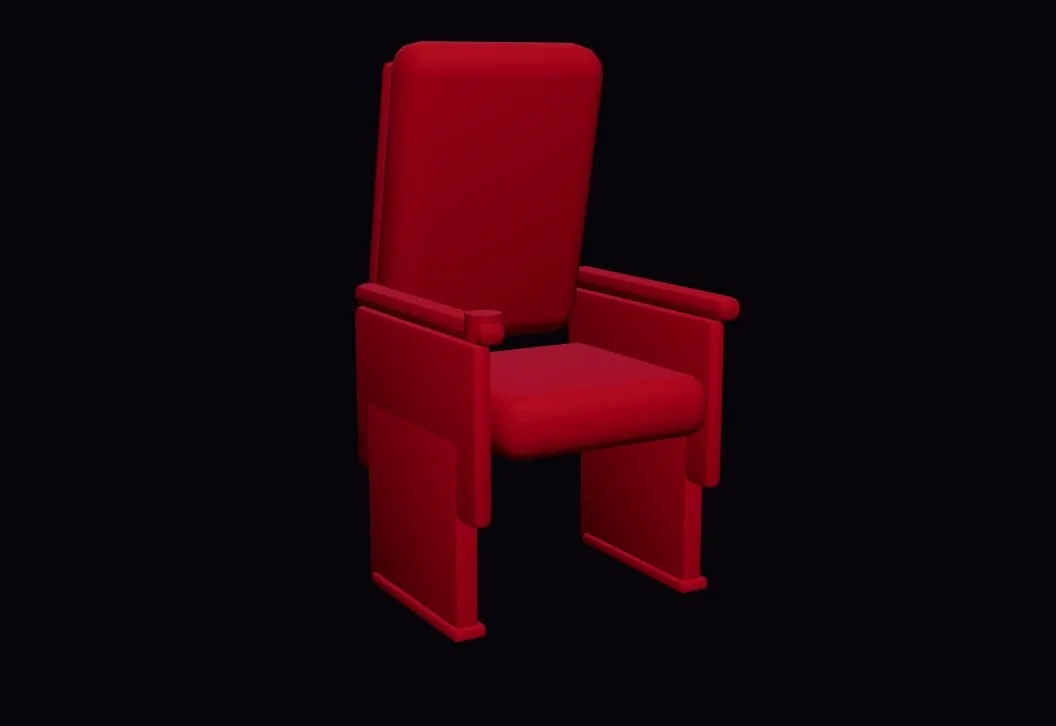
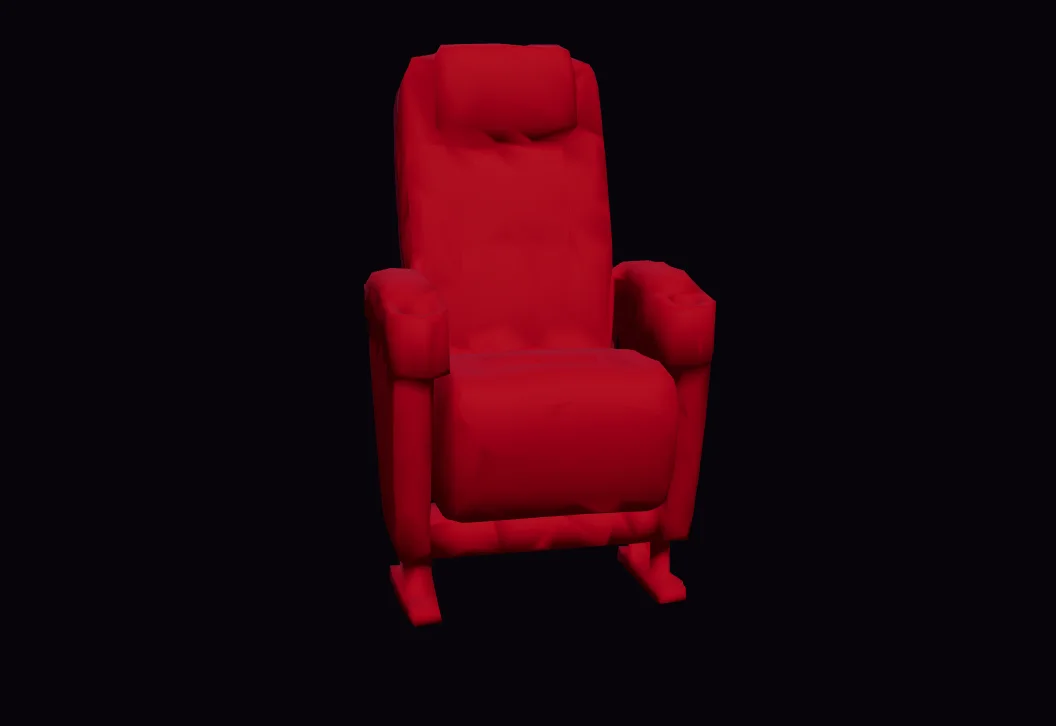
Re-render phone hall + seat stills; Unslop pass on the seat screen
- Phone hero still and the three "Choose your experience" seat stills re-rendered with the new hall look and Tripo seats
- PhoneHall screen corners re-measured; capture page gains blank=1 and angle=
- Unslop (light): row letters in one column, no unreadable numbers on map seats, no duplicate "Free" legend,
  the taka sign falls back to Anek Bangla instead of a system font

Claude-Session: https://claude.ai/code/session_01BVnwsAdfdwoHx9Sucs3VR8

Changed region(s): [[0.3125, 0.0303, 0.7188, 0.8788]]

diff --git a/components/booking/SeatSelection.tsx b/components/booking/SeatSelection.tsx
@@ -304,6 +304,8 @@ export function SeatSelection({ show, hallId, initialSeats = [], taken = [] }: {
   const totalText = `৳${total.toLocaleString("en-US")}`;
   const selectedSet = useMemo(() => new Set(sorted), [sorted]);
   const screenY = td && box ? Math.max(td.screen.y, box.y - 44) : 0;
+  // row letters share one column, just left of the widest row
+  const rowX = td ? Math.min(...[...td.seats.values()].map((q) => q.x)) - td.pitch * 1.15 : 0;
 
   // your row and its neighbours, shown at the bottom in the hall view (reference video A)
   const strip = useMemo(() => {
@@ -391,7 +393,7 @@ export function SeatSelection({ show, hallId, initialSeats = [], taken = [] }: {
           {[...rowsOf(layout.seats).values()].map((row) => {
             const q = td.seats.get(row[0].id)!;
             return (
-              <span key={row[0].row} aria-hidden className="seatmap__row" style={{ left: q.x - td.pitch * 1.15, top: q.y }}>
+              <span key={row[0].row} aria-hidden className="seatmap__row" style={{ left: rowX, top: q.y }}>
                 {row[0].row}
               </span>
             );
@@ -434,7 +436,6 @@ export function SeatSelection({ show, hallId, initialSeats = [], taken = [] }: {
                   zIndex: drag ? 30 - i : 5,
                 }}
               >
-                {glyph >= 14 ? byId.get(id)!.number : ""}
               </span>
             );
           })}
@@ -487,10 +488,12 @@ export function SeatSelection({ show, hallId, initialSeats = [], taken = [] }: {
             className={`absolute inset-x-0 bottom-2 flex flex-wrap items-center justify-center gap-x-5 gap-y-1 text-[12px] text-white/70 transition-opacity duration-300 ${inHall ? "opacity-0" : ""}`}
             aria-label={t("booking.legend")}
           >
-            <li className="inline-flex items-center gap-1.5">
-              <span className="legend-g seat-g--free seat-g--premium" />
-              {t("booking.free")}
-            </li>
+            {classes.length === 1 && (
+              <li className="inline-flex items-center gap-1.5">
+                <span className={`legend-g seat-g--free seat-g--${classes[0]}`} />
+                {t("booking.free")}
+              </li>
+            )}
             <li className="inline-flex items-center gap-1.5">
               <span className="legend-g seat-g--taken" />
               {t("booking.booked")}

diff --git a/app/dev/capture/CaptureLab.tsx b/app/dev/capture/CaptureLab.tsx
@@ -17,13 +17,14 @@ export function CaptureLab({ hall, booked }: { hall: Hall; booked: string[] }) {
   const h = Number(q.get("h") ?? 600);
   const lights = Number(q.get("lights") ?? 0.15);
   const movie = movies.find((m) => m.slug === (q.get("movie") ?? "hunger-games-sunrise-on-the-reaping")) ?? movies[0];
+  const blank = q.get("blank") === "1"; // phone hero still: the trailer is laid over the screen in CSS
   const seatModel = q.get("turntable") as "vip" | "premium" | "atmos" | null;
   if (seatModel)
     return (
       <div style={{ width: w, height: h, background: "#07050a" }} data-capture>
         <Canvas dpr={1} gl={{ antialias: true, preserveDrawingBuffer: true }} onCreated={({ gl }) => void (gl.toneMappingExposure = 1.05)}>
           <Suspense fallback={null}>
-            <SeatTurntable model={seatModel} color={seatModel === "vip" ? "#6B1E24" : "#C0262D"} leather={seatModel === "vip"} hover={false} rings={seatModel === "atmos"} />
+            <SeatTurntable model={seatModel} color={seatModel === "vip" ? "#6B1E24" : "#C0262D"} leather={seatModel === "vip"} hover={false} rings={seatModel === "atmos"} angle={q.get("angle") ? Number(q.get("angle")) : undefined} />
           </Suspense>
         </Canvas>
       </div>
@@ -36,8 +37,8 @@ export function CaptureLab({ hall, booked }: { hall: Hall; booked: string[] }) {
         bookedSeats={booked}
         mode={(q.get("mode") as "seat" | "front" | "overview") ?? "seat"}
         seatId={seat}
-        trailer={movie.trailer}
-        poster={movie.trailerPoster}
+        trailer={blank ? undefined : movie.trailer}
+        poster={blank ? undefined : movie.trailerPoster}
         trailerCrop={movie.trailerCrop}
         startAt={Number(q.get("t") ?? 0.3)}
         houseLights={lights}

diff --git a/components/booking/SeatTurntable.tsx b/components/booking/SeatTurntable.tsx
@@ -11,7 +11,7 @@ import type { SeatModel } from "@/lib/hall-layout";
  * §9.3 a slowly turning seat for an experience card (~8s per turn, soft studio light on night). Hover: a bit
  * faster, with a purple rim light. Atmos gets faint sound-wave rings. Rendered inside a drei <View>.
  */
-export function SeatTurntable({ model, color, leather, hover, rings }: { model: SeatModel; color: string; leather: boolean; hover: boolean; rings?: boolean }) {
+export function SeatTurntable({ model, color, leather, hover, rings, angle }: { model: SeatModel; color: string; leather: boolean; hover: boolean; rings?: boolean; /** freeze at this angle (stills, /dev/capture) */ angle?: number }) {
   const geometry = useModelGeometry(SEAT_MODEL_URL[model]);
   const spin = useRef<THREE.Group>(null);
   const rim = useRef<THREE.DirectionalLight>(null);
@@ -37,7 +37,7 @@ export function SeatTurntable({ model, color, leather, hover, rings }: { model: 
 
   useFrame((state, dt) => {
     speed.current += ((hover ? 1.7 : 1) - speed.current) * (1 - Math.exp(-dt * 4));
-    if (spin.current) spin.current.rotation.y += dt * ((Math.PI * 2) / 8) * speed.current;
+    if (spin.current) spin.current.rotation.y = angle ?? spin.current.rotation.y + dt * ((Math.PI * 2) / 8) * speed.current;
     if (rim.current) rim.current.intensity += ((hover ? 3.2 : 0.7) - rim.current.intensity) * (1 - Math.exp(-dt * 5));
     if (ringGroup.current) {
       const t = state.clock.elapsedTime;

diff --git a/components/home/PhoneHall.tsx b/components/home/PhoneHall.tsx
@@ -8,10 +8,10 @@ import { type MutableRefObject, useEffect, useLayoutEffect, useRef, useState } f
 const IMG = { src: "/hero/hall-portrait.webp", w: 1080, h: 2340 };
 /** the screen's corners in the still, as fractions (top-left, top-right, bottom-right, bottom-left) */
 const QUAD: [number, number][] = [
-  [0.0111, 0.2513],
-  [0.9889, 0.2513],
-  [0.9574, 0.4444],
-  [0.0426, 0.4444],
+  [-0.0147, 0.2509],
+  [1.0138, 0.2509],
+  [0.9652, 0.4436],
+  [0.0339, 0.4436],
 ];
 const BOX = { w: 1000, h: 428 }; // the flat screen the video is drawn into, before the perspective transform
 

diff --git a/app/globals.css b/app/globals.css
@@ -60,7 +60,8 @@
   --color-map-selected: var(--map-selected);
 
   --font-display: var(--font-fraunces), Georgia, serif;
-  --font-sans: var(--font-outfit), system-ui, sans-serif;
+  /* ৳ is not in Outfit: Anek Bangla draws it (only that glyph falls back; its bengali subset loads on demand) */
+  --font-sans: var(--font-outfit), var(--font-anek-bangla), system-ui, sans-serif;
   --font-bangla: var(--font-anek-bangla), var(--font-outfit), sans-serif;
   --font-mono: var(--font-plex-mono), ui-monospace, monospace;
 }

diff --git a/CLAUDE.md b/CLAUDE.md
@@ -940,8 +940,9 @@ hero info below, "Tonight at" chips as a swipeable row, the navbar reduced to lo
 - Seat selection on phones: 2D map first (no WebGL mounted); "View from seat" (eye icon on the seat chips) opens the 3D
   view with a lens wide enough for the whole screen; "Explore in 3D" on capable phones.
 - Checkout on phones: sticky bar (seats · hold timer · total · Pay); tapping the total opens the summary as a sheet.
-- Re-render the stills with the dev page `/dev/capture` (`?mode=portrait&w=1080&h=2340` for the hall,
-  `?turntable=vip&w=1056&h=726` for a seat).
+- Re-render the stills with the dev page `/dev/capture` (`?mode=portrait&w=1080&h=2340&blank=1` for the hall, then paint
+  the screen quad black and re-measure `QUAD` in `PhoneHall.tsx`; `?turntable=vip&w=1056&h=726&angle=3.95` for a seat,
+  the angle gives the three-quarter front view). Last re-render: Nov 26, new hall look and Tripo seats.
 ---
 
 ## 12. Reference index
